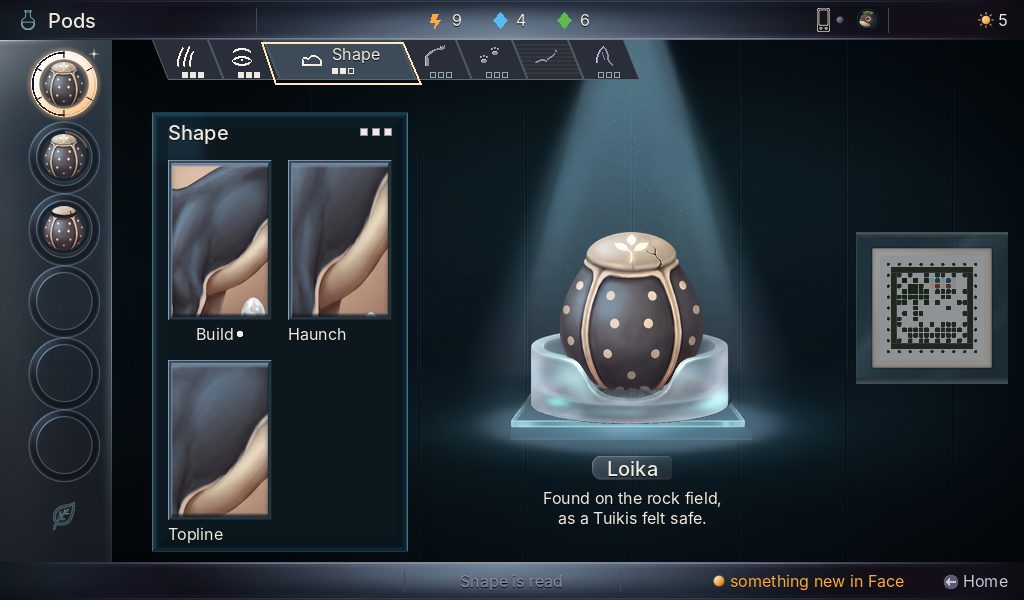
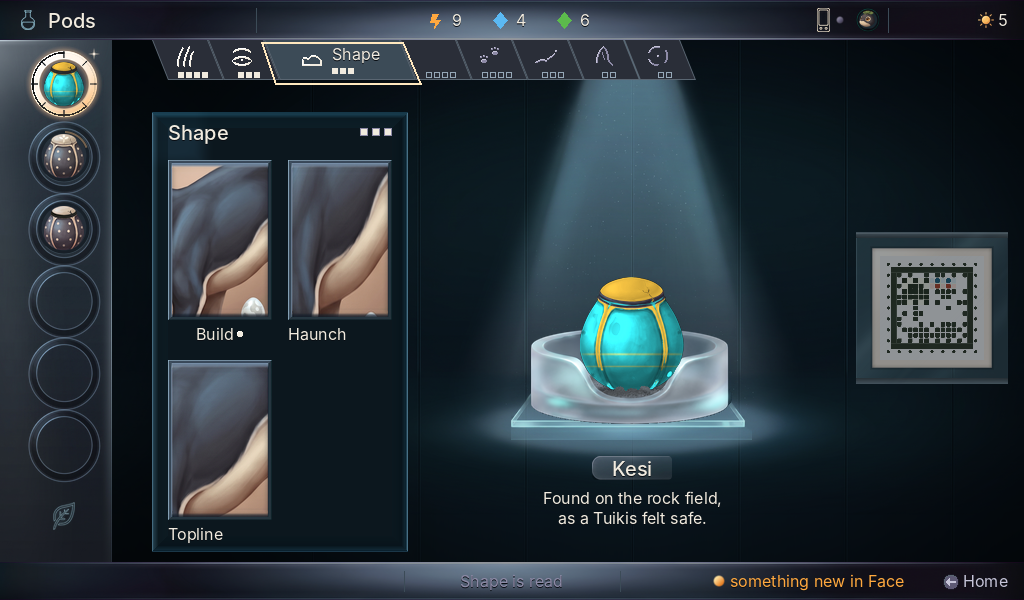
Pods masters pass 14d: the Grid composite for a Tuikis, the tail off the tab

diff --git a/art/station-masters/pods/tools/compose.py b/art/station-masters/pods/tools/compose.py
@@ -3,6 +3,7 @@ On the layout of design-pods-relayout 29b6dc9: the well column at 112 with 80x80
 one to eight traits), the pod the protagonist on axis x 632, the stamp a detail in a 152 px case.
 Writes composite-pods-read-1024x600.png (a chapter of four traits, six full tabs), composite-pods-grid-1024x600.png (a chapter of one trait, a seven-chapter
 compact rail) and composite-vs-candidate.png."""
+import numpy as np
 from PIL import Image, ImageDraw, ImageFont
 FD = "/usr/share/fonts/opentype/inter/"
 f16 = ImageFont.truetype(FD + "Inter-Regular.otf", 16); f20 = ImageFont.truetype(FD + "Inter-Medium.otf", 20)
@@ -10,6 +11,15 @@ CREAM = (241, 235, 223); FOG = (198, 196, 216); MIST = (141, 138, 166); AMBER = 
 cand = Image.open("source/raw/ref-PV-D-r3-a4-1024x600.png").convert("RGBA")
 def S(n): return Image.open(f"slices/{n}.png").convert("RGBA")
 CID = {'Coat': 'coat', 'Face': 'face', 'Shape': 'shape', 'Legs & Tail': 'legs-tail', 'Legs': 'legs-tail', 'Movement': 'movement', 'Stamina': 'stamina', 'Character': 'character', 'Glow': 'glow', 'Charge': 'charge'}
+def recol(cls, A, B, pattern):
+    """One painted pod in a species' colour pair: the shade layer lit through the body and accent masks (and a pattern), then the band and crack layers on top (tools/recolour.py's method)."""
+    L = lambda n: np.asarray(Image.open(f"slices/pod-{cls}-{n}.png").convert("RGBA")).astype(float) / 255
+    sh = L("shade")[..., 0:1]; body = L("mask-body")[..., 3:4]; acc = L("mask-accent")[..., 3:4]; pat = L("pattern-" + pattern)[..., 3:4] if pattern else 0 * body
+    A = np.array(A) / 255; B = np.array(B) / 255; col = np.clip((A * body * (1 - pat) + B * np.clip(acc + pat, 0, 1)) * sh * 2, 0, 1)
+    out = Image.fromarray((np.concatenate([col, L("shade")[..., 3:4]], 2) * 255).astype(np.uint8), "RGBA")
+    for n in ("band", "crack"): out.alpha_composite(Image.open(f"slices/pod-{cls}-{n}.png").convert("RGBA"))
+    return out
+TUIKIS = ((0x26, 0x9f, 0xa5), (0xe8, 0xb8, 0x3f), "bands")      # S03: lagoon and marigold (its plates pattern is not painted; bands stand in)
 def compose(traits, rail):
     cv = Image.new("RGBA", (1024, 600), (16, 26, 36, 255)); d = ImageDraw.Draw(cv)
     def put(n, x, y): cv.alpha_composite(S(n), (x, y))
@@ -18,19 +28,20 @@ def compose(traits, rail):
         d.text(xy, s, font=font, fill=fill, anchor=anchor)
     put("room-bench-stage", 0, 40); put("ring-column-112x522", 0, 40)
     # the wells: a ring slice at (24, 44 + 72 i), the pod 32x48 centred in it, the arcs on the inner edge; a glint star at the selected ring's upper right
-    pods = {0: "pod-well-identified", 1: "pod-well-identified", 2: "pod-well-sealed"}; lit = {0: (6, 3), 1: (5, 1), 2: (4, 0)}
+    pods = {0: "pod-well-identified", 1: "pod-well-identified", 2: "pod-well-sealed"}; lit = {0: (6, 3), 1: (5, 1), 2: (4, 0)} if rail == "six" else {0: (8, 3), 1: (5, 1), 2: (4, 0)}
     for i in range(6):
         y = 44 + 72 * i; sel = i == 0; st = "selected" if sel else "idle"
         put("ring-well-selected-80x80" if sel else "ring-well-idle-80x80", 24, y)
         if i in lit:
             n, k = lit[i]; put(f"ring-arc-{st}-n{n}-track", 24, y)       # selected: the open channel over the solid band; idle: the groove
             for j in range(k): put(f"ring-arc-{st}-n{n}-s{j}", 24, y)    # a read chapter: the solid band (selected) or the dim line (idle)
-        if i in pods: put(pods[i], 44, 60 + 72 * i)
+        if i == 0 and rail == "compact": cv.alpha_composite(recol("well", *TUIKIS), (44, 60))
+        elif i in pods: put(pods[i], 44, 60 + 72 * i)
     put("glint-star-12x12", 24 + 40 + 30 - 6, 44 + 40 - 30 - 6)
     put("ring-hatch-80x56", 24, 488)
     # the stage: the pod the protagonist on axis x 632
-    put("room-shelf", 488, 368); put("room-cradle", 520, 328); put("pod-large-shadow", 632 - 80, 385); put("pod-large-identified", 560, 216); put("room-cradle-front", 520, 328)
-    tw = d.textlength("Loika", font=f20); pw = min(224, max(80, -(-int(tw + 24) // 16) * 16)); put(f"plate-name-{pw}x24", 632 - pw // 2, 456); text((632, 468), "Loika", f20, CREAM, "mm")
+    put("room-shelf", 488, 368); put("room-cradle", 520, 328); (put("pod-large-shadow", 632 - 80, 385), put("pod-large-identified", 560, 216)) if rail == "six" else (put("pod-small-shadow", 632 - Image.open("slices/pod-small-shadow.png").width // 2, 385), cv.alpha_composite(recol("small", *TUIKIS), (580, 264))); put("room-cradle-front", 520, 328)
+    NAME = "Loika" if rail == "six" else "Kesi"; tw = d.textlength(NAME, font=f20); pw = min(224, max(80, -(-int(tw + 24) // 16) * 16)); put(f"plate-name-{pw}x24", 632 - pw // 2, 456); text((632, 468), NAME, f20, CREAM, "mm")
     text((632, 498), "Found on the rock field,", f16, BONE, "mm"); text((632, 518), "as a Tuikis felt safe.", f16, BONE, "mm")
     put("room-stamp-case-152x152", 856, 232); put("stamp-label-120x120", 872, 248); cv.alpha_composite(Image.open("../../concept-station/pods-v2/layout/stamp-hopper-bench-300.png").convert("RGBA").resize((104, 104), Image.NEAREST), (880, 256)); put("room-stamp-case-152x152-front", 856, 232)
     # the page, 256 wide: one state, a grid of the chapter's traits
@@ -54,7 +65,7 @@ def compose(traits, rail):
             (namenew((cx + 52, cy + 164), "Build" if rail == "compact" else "Spots") if k == 0 else text((cx, cy + 164), (("Build", "Haunch", "Topline") if rail == "compact" else ("Spots", "Belly", "Flank", "Crest"))[k], f16, CREAM))
     # the rail: tabs hang from the bar at y 40 and touch along their slants
     if rail == "six": tabs = [("Coat", "focused", 3), ("Face", "read", 3), ("Shape", "unread", 4), ("Legs & Tail", "unread", 3), ("Movement", "sealed", 0), ("Stamina", "unread", 3)]; open_i = None
-    else: tabs = [("Coat", "read", 3), ("Face", "read", 3), ("Shape", "focused", 3), ("Legs", "unread", 3), ("Movement", "unread", 3), ("Stamina", "sealed", 0), ("Character", "unread", 3)]; open_i = 2
+    else: tabs = [("Coat", "read", 4), ("Face", "read", 3), ("Shape", "focused", 3), ("Legs", "unread", 4), ("Movement", "unread", 4), ("Stamina", "unread", 3), ("Character", "unread", 2), ("Glow", "unread", 2)]; open_i = 2      # the eight chapters of a Tuikis (S03)
     x = 152; ring = None
     for i, (word, st, pips) in enumerate(tabs):
         full = rail == "six" or i == open_i; w = 136 if full else 56
@@ -64,10 +75,11 @@ def compose(traits, rail):
         pc = CREAM if st in ("read", "focused") else (150, 168, 184)
         if full:
             tw = d.textlength(word, font=f16); bx = x + 76 - (32 + tw) / 2
-            cv.alpha_composite(S(f"rail-emblem-{CID[word]}-{es}-24x24"), (int(bx), 48)); text((bx + 32, 54), word, f16, pc if st != "sealed" else MIST, "lm")
-            for p in range(pips): px = int(x + 80 - pips * 4 + 8 * p); d.rectangle([px, 68, px + 5, 73], fill=pc if st in ("read", "focused") and p < 2 else None, outline=pc)
+            if word == "Legs & Tail": text((x + 76, 54), word, f16, pc if st != "sealed" else MIST, "mm")      # no emblem until Legs & Tail is picked: the word alone
+            else: cv.alpha_composite(S(f"rail-emblem-{CID[word]}-{es}-24x24"), (int(bx), 48)); text((bx + 32, 54), word, f16, pc if st != "sealed" else MIST, "lm")
+            for p in range(pips): px = int(x + 80 - pips * 4 + 8 * p); d.rectangle([px, 68, px + 5, 73], fill=pc if st in ("read", "focused") and p < (pips if rail == "compact" else 2) else None, outline=pc)
         else:
-            cv.alpha_composite(S(f"rail-emblem-{CID[word]}-{es}-24x24"), (x + 34 - 12, 44))
+            if word != "Legs": cv.alpha_composite(S(f"rail-emblem-{CID[word]}-{es}-24x24"), (x + 34 - 12, 44))        # pips only on the Legs & Tail tab
             for p in range(min(pips, 4)): px = int(x + 42 - min(pips, 4) * 4 + 8 * p); d.rectangle([px, 72, px + 5, 77], fill=pc if st in ("read", "focused") else None, outline=pc)
         x += w
     if ring:

diff --git a/art/station-masters/pods/tools/status.py b/art/station-masters/pods/tools/status.py
@@ -29,7 +29,7 @@ for n in m:
     elif n in ("frame-top-bar-1024x40", "frame-bottom-line-1024x38"): sign(n, "signed", "pass 1", "excluded from placing (the frame redesign)")
     elif re.match(r"rail-emblem-(coat|face|stamina|glow|character)-", n): sign(n, "signed", "emblems round 3")
     elif re.match(r"rail-emblem-(shape|movement|charge)-", n): sign(n, "signed", "emblems round 4")
-    elif re.match(r"rail-emblem-", n): sign(n, "new", None, "Legs & tail as the tail alone, candidate B tapered (4 px to 2 px) with a five-point brush, pass 14; awaiting verdict")
+    elif re.match(r"rail-emblem-", n): sign(n, "withdrawn", None, "Legs & tail: eight hand rounds failed; the tapered tail was not signed; the method changes to the pixel pipeline (pass 15); the tab shows its word")
     elif n == "page-pane-408x440": sign(n, "withdrawn", None, "signed in pass 1, withdrawn with the page's re-layout (the Read page is 256 wide); Compare still uses 408")
     elif n == "room-stamp-case": sign(n, "withdrawn", None, "the old 176x328 size; the case is now 152x152")
     elif n == "room-stamp-case-152x152": sign(n, "signed", "pass 8 (d767daa verdict)", "with a condition: the front glass over the label (room-stamp-case-152x152-front)")

diff --git a/art/station-masters/pods/README.md b/art/station-masters/pods/README.md
@@ -49,9 +49,9 @@ Each slice is named by the register id it replaces (`room`, `ring`, `page`, `tra
 | `rail-emblem-glow-read-24x24` | 24×24 |  | signed (emblems round 3) | hand-pixelled at 24x24 on the Station palette (indexed, 62 colours, index 62 transparent); state = colour only |
 | `rail-emblem-glow-sealed-24x24` | 24×24 |  | signed (emblems round 3) | hand-pixelled at 24x24 on the Station palette (indexed, 62 colours, index 62 transparent); state = colour only |
 | `rail-emblem-glow-unread-24x24` | 24×24 |  | signed (emblems round 3) | hand-pixelled at 24x24 on the Station palette (indexed, 62 colours, index 62 transparent); state = colour only |
-| `rail-emblem-legs-tail-read-24x24` | 24×24 |  | new: Legs & tail as the tail alone, candidate B tapered (4 px to 2 px) with a five-point brush, pass 14; awaiting verdict | hand-pixelled at 24x24 on the Station palette (indexed, 62 colours, index 62 transparent); state = colour only |
-| `rail-emblem-legs-tail-sealed-24x24` | 24×24 |  | new: Legs & tail as the tail alone, candidate B tapered (4 px to 2 px) with a five-point brush, pass 14; awaiting verdict | hand-pixelled at 24x24 on the Station palette (indexed, 62 colours, index 62 transparent); state = colour only |
-| `rail-emblem-legs-tail-unread-24x24` | 24×24 |  | new: Legs & tail as the tail alone, candidate B tapered (4 px to 2 px) with a five-point brush, pass 14; awaiting verdict | hand-pixelled at 24x24 on the Station palette (indexed, 62 colours, index 62 transparent); state = colour only |
+| `rail-emblem-legs-tail-read-24x24` | 24×24 |  | withdrawn: Legs & tail: eight hand rounds failed; the tapered tail was not signed; the method changes to the pixel pipeline (pass 15); the tab shows its word | hand-pixelled at 24x24 on the Station palette (indexed, 62 colours, index 62 transparent); state = colour only |
+| `rail-emblem-legs-tail-sealed-24x24` | 24×24 |  | withdrawn: Legs & tail: eight hand rounds failed; the tapered tail was not signed; the method changes to the pixel pipeline (pass 15); the tab shows its word | hand-pixelled at 24x24 on the Station palette (indexed, 62 colours, index 62 transparent); state = colour only |
+| `rail-emblem-legs-tail-unread-24x24` | 24×24 |  | withdrawn: Legs & tail: eight hand rounds failed; the tapered tail was not signed; the method changes to the pixel pipeline (pass 15); the tab shows its word | hand-pixelled at 24x24 on the Station palette (indexed, 62 colours, index 62 transparent); state = colour only |
 | `rail-emblem-movement-read-24x24` | 24×24 |  | signed (emblems round 4) | hand-pixelled at 24x24 on the Station palette (indexed, 62 colours, index 62 transparent); state = colour only |
 | `rail-emblem-movement-sealed-24x24` | 24×24 |  | signed (emblems round 4) | hand-pixelled at 24x24 on the Station palette (indexed, 62 colours, index 62 transparent); state = colour only |
 | `rail-emblem-movement-unread-24x24` | 24×24 |  | signed (emblems round 4) | hand-pixelled at 24x24 on the Station palette (indexed, 62 colours, index 62 transparent); state = colour only |
@@ -335,6 +335,13 @@ Each slice is named by the register id it replaces (`room`, `ring`, `page`, `tra
 | `trait-picture-frame-376x264-unread` | 376×264 |  | signed (pass 4) | frost texture at 0.9 alpha under the frame |
 
 <!-- end of the generated Slices section -->
+
+## Pass 14d - the Grid composite for a Tuikis, the tail off the tab
+
+- The tapered tail was not signed after eight hand rounds: `rail-emblem-legs-tail-*` withdrawn; it is off the rail in both composites (the word on the full tab, pips only on the compact tab). Legs & Tail goes through the pixel pipeline next (pass 15).
+- The Grid composite's pod is now a Tuikis (S03; a Loika has no Shape chapter): the small-class pod recoloured in S03's lagoon and marigold (`recol` in `tools/compose.py`, `tools/recolour.py`'s method with the band and crack layers on top; the plates pattern is not painted, so bands stand in), its name plate (the name "Kesi" is a stand-in), its rail of eight chapters (Coat 4, Face 3, Shape 3, Legs & Tail 4, Movement 4, Stamina 3, Character 2, Glow 2 traits) with Shape open and read, the selected well showing the same pod, and the corrected page pane (64x64 top-left piece, fill 21). Shape traits Build, Haunch, Topline; the pictures are still Coat crops of the mibi painting (stand-ins, no Shape pictures exist).
+- The Read composite is still a Loika with Coat, Face, Shape and Stamina tabs and four invented Coat traits; a Loika has Coat (Markings), Face (Crown, Eyes), Movement (Drive) and Stamina (Efficiency) only. It is not corrected here and is not claimed to be the right page for that pod.
+
 
 ## Pass 14c - the page pane keeps the house's light
 
